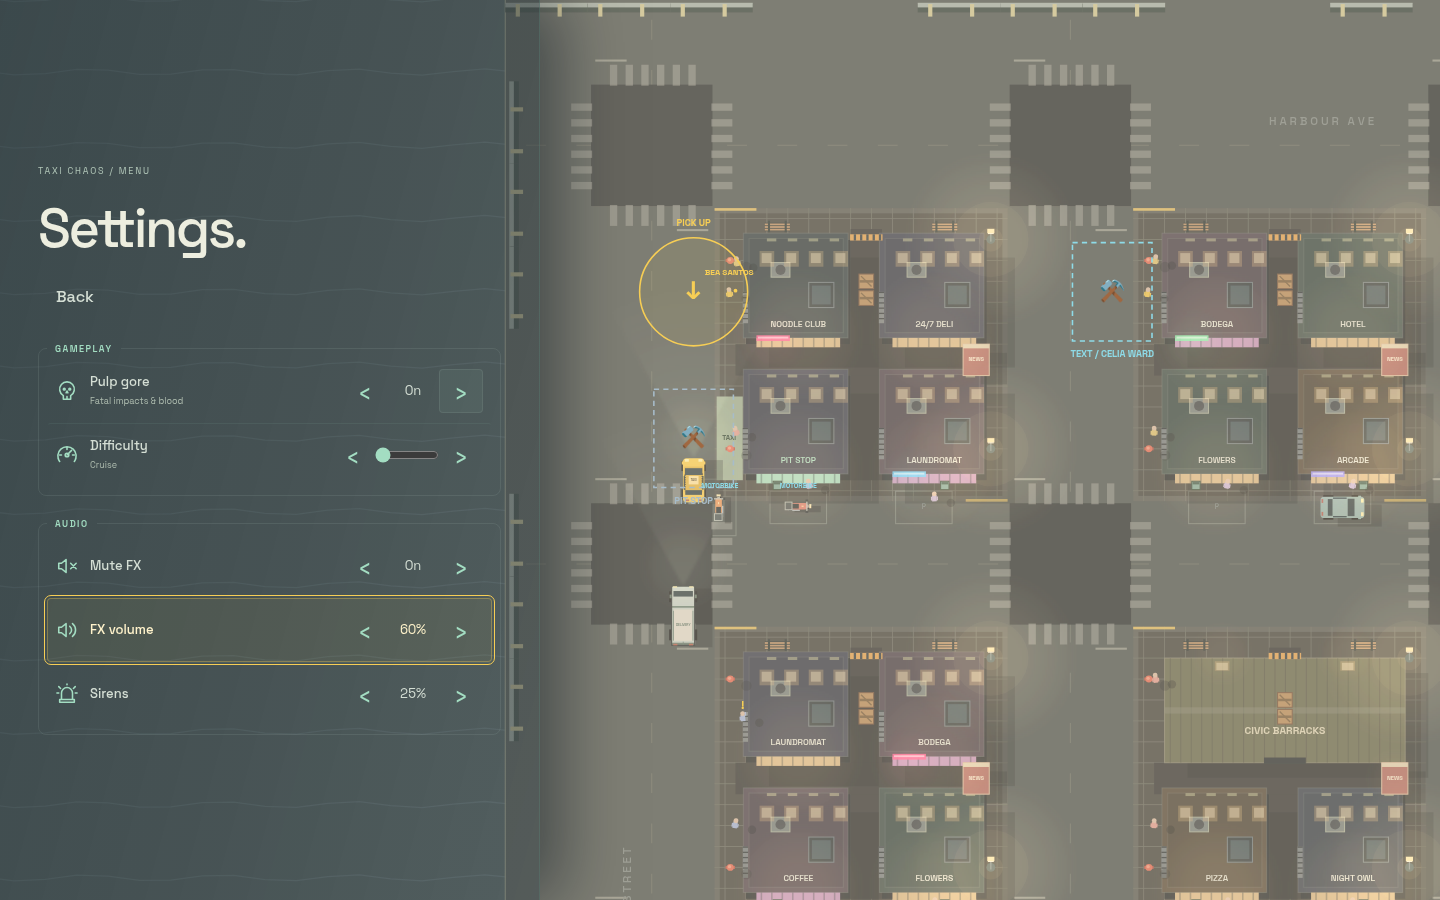
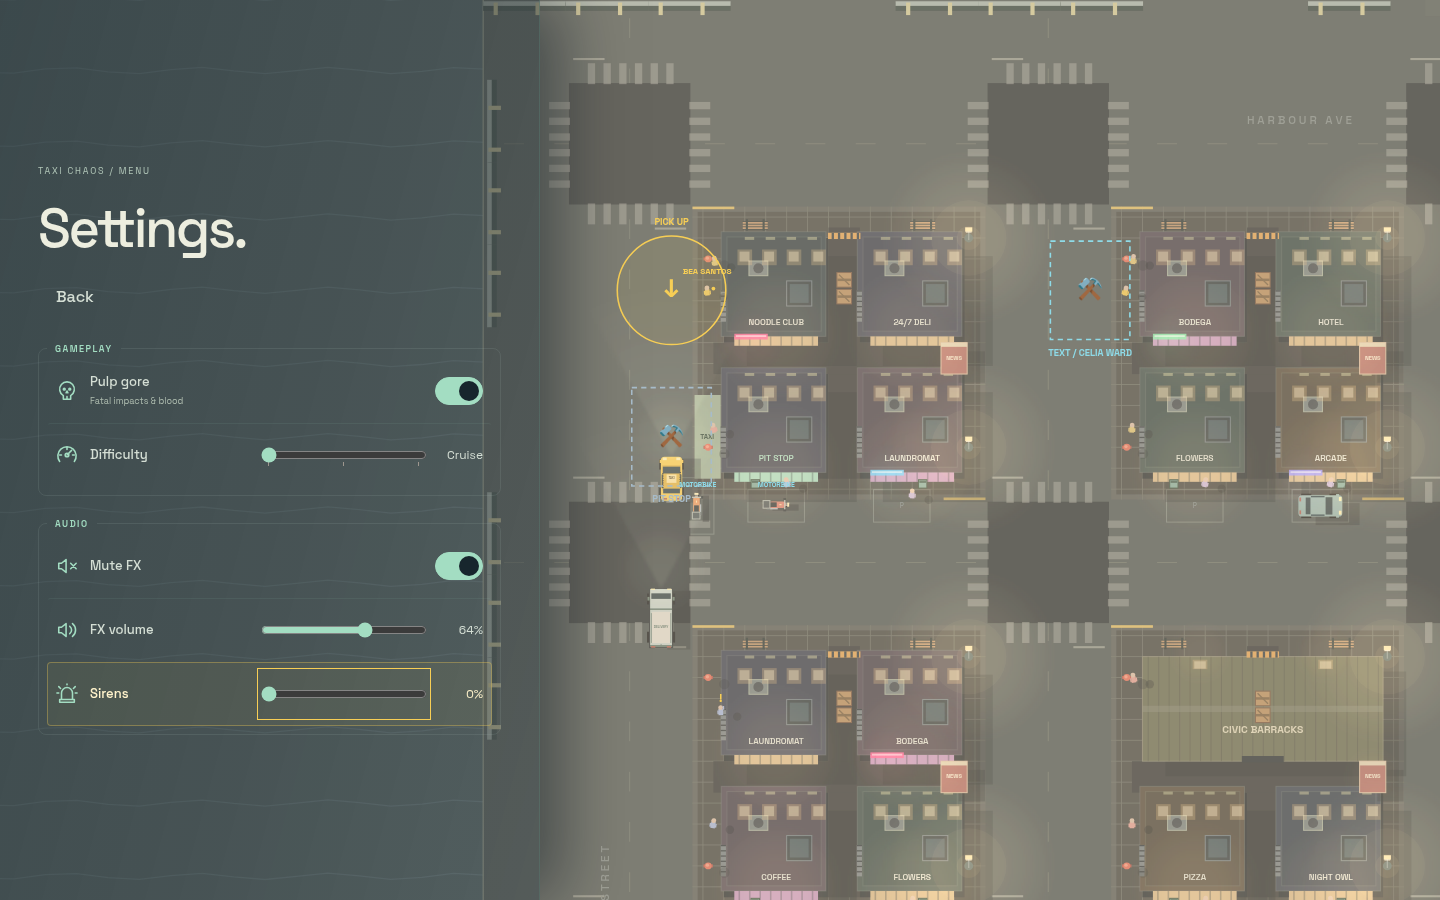
Use switches and sliders for game settings

diff --git a/src/drawer.css b/src/drawer.css
@@ -29,21 +29,23 @@
 @media(prefers-reduced-motion:reduce){.drawer-entering{animation:none}.splash-modal .menu-item,.splash-modal .menu-item::after,.splash-modal .menu-field{transition:none}}
 @media(max-width:700px){.splash-modal{width:min(420px,calc(100vw - 24px));padding:max(24px,env(safe-area-inset-top)) max(24px,env(safe-area-inset-right)) max(24px,env(safe-area-inset-bottom)) max(24px,env(safe-area-inset-left))}.splash-modal h2{font-size:clamp(34px,8vw,48px)}.splash-save{padding:14px}.splash-save-heading{flex-wrap:wrap}.splash-save-heading small{margin-left:0;width:100%}.splash-snapshot strong{font-size:22px}.splash-modal .intro-controls{gap:8px;font-size:9px}.splash-modal .intro-grid{grid-template-columns:1fr}.splash-modal .intro-grid>div>span{margin-bottom:5px}}
 @media(max-height:650px){.splash-modal{padding-top:20px;padding-bottom:20px}.splash-modal h2{font-size:40px;margin-top:14px}.drawer-page>.intro-copy{margin-bottom:14px}.splash-snapshot{padding:12px 0}}
-/* Settings retain the drawer palette and use one control pattern throughout. */
+/* Settings share the drawer palette, with native controls and aligned values. */
 .settings-group{min-width:0;margin:22px 0 0;padding:4px 8px 8px;border:1px solid var(--border);border-radius:8px}
 .settings-group legend{padding:0 8px;font-size:9px;font-weight:600;letter-spacing:1.5px;color:var(--mint)}
-.setting-row{display:flex;align-items:center;gap:12px;min-height:64px;padding:8px;border:1px solid transparent;border-radius:4px;color:#d4ded4}
+.setting-row{display:flex;align-items:center;gap:12px;min-height:64px;padding:8px;border:1px solid transparent;border-radius:4px;color:#d4ded4;cursor:pointer}
 .setting-row+.setting-row{border-top-color:#a3ddc215}
-.setting-row[data-selected]{background:#f7ce5510;border-color:#f7ce5555;color:#fff3cb}
-.setting-row:focus-visible{outline:1px solid var(--gold);outline-offset:2px}
+.setting-row:has([data-selected]){background:#f7ce5510;border-color:#f7ce5555;color:#fff3cb}
 .setting-row>svg{flex:0 0 22px;color:var(--mint)}
 .setting-label{flex:1;min-width:0;font-size:13px;font-weight:500}
 .setting-label small{display:block;margin-top:5px;font-size:9px;font-weight:400;color:#aebcaf;line-height:1.5}
-.setting-value{display:flex;align-items:center;flex-shrink:0}
-.setting-value output{min-width:52px;text-align:center;font-size:13px;font-variant-numeric:tabular-nums}
-.setting-value button{display:grid;place-items:center;width:44px;height:44px;padding:0;background:transparent;border:1px solid transparent;border-radius:4px;color:var(--mint);font-size:26px;touch-action:manipulation}
-.setting-value button:hover{background:#a3ddc212;border-color:var(--border)}
-@media(max-width:380px){.settings-group{padding-inline:2px}.setting-row{gap:8px;padding-inline:4px}.setting-label{font-size:11px}.setting-value output{min-width:40px;font-size:12px}.setting-row>svg{flex-basis:18px;width:18px}.setting-value button{width:36px}}
-
-.setting-value input[type=range]{width:64px;min-width:0;margin:0;accent-color:var(--mint);cursor:pointer}
-@media(max-width:380px){.setting-value input[type=range]{width:40px}}
+.setting-value{display:flex;align-items:center;gap:12px;width:52%;min-width:0}
+.setting-value output{flex:0 0 44px;text-align:right;font-size:12px;font-variant-numeric:tabular-nums}
+.setting-value input[type=range]{flex:1;width:0;min-width:0;height:44px;margin:0;accent-color:var(--mint);cursor:pointer}
+.setting-value.setting-toggle{justify-content:flex-end}
+.setting-value input[type=checkbox]{appearance:none;position:relative;width:48px;height:28px;margin:8px 0;border:1px solid #a3ddc266;border-radius:20px;background:#14242c;cursor:pointer;transition:background .15s}
+.setting-value input[type=checkbox]::before{content:'';position:absolute;width:20px;height:20px;left:3px;top:3px;border-radius:50%;background:#d4ded4;transition:transform .15s}
+.setting-value input[type=checkbox]:checked{background:var(--mint);border-color:var(--mint)}
+.setting-value input[type=checkbox]:checked::before{transform:translateX(20px);background:#17262d}
+.setting-value input:focus-visible{outline:1px solid var(--gold);outline-offset:3px}
+@media(max-width:380px){.settings-group{padding-inline:2px}.setting-row{gap:8px;padding-inline:4px}.setting-label{font-size:11px}.setting-value{gap:6px}.setting-value output{flex-basis:36px;font-size:11px}.setting-row>svg{flex-basis:18px;width:18px}}
+@media(prefers-reduced-motion:reduce){.setting-value input[type=checkbox],.setting-value input[type=checkbox]::before{transition:none}}

diff --git a/src/game-drawer.ts b/src/game-drawer.ts
@@ -1,7 +1,7 @@
 import type { Game } from './game';
 import type { AudioFX } from './audio';
 import { difficulties, type Difficulty } from './rules';
-import { stepChoice, stepVolume, type SettingKey } from './setting-controls';
+import type { SettingKey } from './setting-controls';
 import type { Allegation } from './campaign/model';
 import { bindAudioControls } from './audio-controls';
 import { DrawerMenu } from './drawer-menu';
@@ -22,10 +22,6 @@ export class GameDrawer {
       const button = event.target instanceof Element ? event.target.closest<HTMLButtonElement>('button') : null;
       if (!this.active || this.transition || !button || button.disabled) return;
       const game = options.game(), page = button.dataset.page;
-      if (button.dataset.step) {
-        this.changeSetting(button.closest<HTMLElement>('[data-setting]')!.dataset.setting as SettingKey, Number(button.dataset.step));
-        return;
-      }
       if (page && isDrawerPage(page)) { void this.open(page); return; }
       switch (button.id) {
         case 'start': options.play(); break;
@@ -39,10 +35,15 @@ export class GameDrawer {
       if (button.dataset.publish && game.requestPublication(button.dataset.publish as Allegation)) this.refresh();
     });
     root.addEventListener('input', event => {
-      if ((event.target as HTMLElement).id === 'difficulty-slider') {
-        options.game().configure({ difficulty: (Object.keys(difficulties) as Difficulty[])[Number((event.target as HTMLInputElement).value)] });
-        this.refreshSettings();
+      const input = event.target as HTMLInputElement;
+      const key = input.dataset.settingInput as SettingKey | undefined;
+      if (key === 'gore') options.game().configure({ gore: input.checked });
+      else if (key === 'difficulty') options.game().configure({ difficulty: (Object.keys(difficulties) as Difficulty[])[Number(input.value)] });
+      else if (key) {
+        options.audio.configure(key === 'muted' ? { muted: input.checked } : { [key]: Number(input.value) / 100 });
+        void options.audio.unlock();
       }
+      if (key) this.refreshSettings();
       if ((event.target as HTMLElement).id === 'notebook-search') this.filterNotebook();
     });
   }
@@ -62,26 +63,15 @@ export class GameDrawer {
     const values: Record<SettingKey, string> = { gore: settings.gore ? 'On' : 'Off', difficulty: difficulties[settings.difficulty].name, muted: p.muted ? 'On' : 'Off', volume: `${Math.round(p.volume * 100)}%`, sirens: `${Math.round(p.sirens * 100)}%` };
     this.root.querySelectorAll<HTMLElement>('[data-setting]').forEach(row => {
       const value = values[row.dataset.setting as SettingKey];
-      if (row.dataset.setting === 'difficulty') {
-        row.querySelector('[data-difficulty-label]')!.textContent = value;
-        const slider = row.querySelector<HTMLInputElement>('input')!;
-        slider.value = String(Object.keys(difficulties).indexOf(settings.difficulty));
-        slider.setAttribute('aria-valuetext', value);
-        return;
+      const key = row.dataset.setting as SettingKey, input = row.querySelector<HTMLInputElement>('input')!;
+      if (key === 'gore' || key === 'muted') input.checked = value === 'On';
+      else {
+        input.value = String(key === 'difficulty' ? Object.keys(difficulties).indexOf(settings.difficulty) : Math.round(p[key] * 100));
+        if (key === 'difficulty') input.setAttribute('aria-valuetext', value);
+        const output = row.querySelector('output')!;
+        if (output.textContent !== value) output.textContent = value;
       }
-      const output = row.querySelector('output')!;
-      if (output.textContent !== value) output.textContent = value;
     });
-  }
-  private changeSetting(key: SettingKey, delta: number) {
-    const game = this.options.game(), audio = this.options.audio, p = audio.preferences;
-    if (key === 'gore') game.configure({ gore: !game.settings.gore });
-    else if (key === 'difficulty') game.configure({ difficulty: stepChoice(Object.keys(difficulties) as Difficulty[], game.settings.difficulty, delta) });
-    else {
-      audio.configure(key === 'muted' ? { muted: !p.muted } : { [key]: stepVolume(p[key], delta) });
-      void audio.unlock();
-    }
-    this.refreshSettings();
   }
 
   async open(page: DrawerPage, { animate = true } = {}) {

diff --git a/src/setting-controls.ts b/src/setting-controls.ts
@@ -8,15 +8,15 @@ const paths = {
 };
 export type SettingKey = keyof typeof paths;
 export function settingRow(key: SettingKey, label: string, value: string, hint = '') {
-  return `<div class="setting-row" id="${key}-option" data-setting="${key}" tabindex="0" role="group" aria-label="${label}">
+  const toggle = key === 'gore' || key === 'muted';
+  const difficulty = key === 'difficulty';
+  const current = difficulty ? ['Cruise', 'Street', 'Chaos'].indexOf(value) : parseInt(value);
+  const control = toggle
+    ? `<input type="checkbox" role="switch" id="${key}-option" data-setting-input="${key}" ${value === 'On' ? 'checked' : ''}>`
+    : `<input type="range" id="${key}-option" data-setting-input="${key}" min="0" max="${difficulty ? 2 : 100}" step="1" value="${current}" ${difficulty ? `aria-valuetext="${value}" list="difficulty-stops"` : ''}><output for="${key}-option">${value}</output>${difficulty ? '<datalist id="difficulty-stops"><option value="0"></option><option value="1"></option><option value="2"></option></datalist>' : ''}`;
+  return `<label class="setting-row" data-setting="${key}" for="${key}-option">
     <svg viewBox="0 0 24 24" fill="none" stroke="currentColor" stroke-width="1.7" stroke-linecap="round" stroke-linejoin="round" aria-hidden="true">${paths[key]}</svg>
-    <div class="setting-label">${label}${key === 'difficulty' ? `<small data-difficulty-label>${value}</small>` : hint ? `<small>${hint}</small>` : ''}</div>
-    <div class="setting-value"><button type="button" data-step="-1" aria-label="Previous ${label}">‹</button>${key === 'difficulty' ? `<input type="range" id="difficulty-slider" min="0" max="2" step="1" value="${['Cruise', 'Street', 'Chaos'].indexOf(value)}" aria-label="Difficulty" aria-valuetext="${value}">` : `<output aria-live="polite">${value}</output>`}<button type="button" data-step="1" aria-label="Next ${label}">›</button></div>
-  </div>`;
-}
-export function stepChoice<T>(choices: readonly T[], current: T, delta: number): T {
-  return choices[(choices.indexOf(current) + delta + choices.length) % choices.length];
-}
-export function stepVolume(current: number, delta: number): number {
-  return Math.max(0, Math.min(100, Math.round(current * 100) + delta * 5)) / 100;
+    <span class="setting-label">${label}${hint ? `<small>${hint}</small>` : ''}</span>
+    <span class="setting-value${toggle ? ' setting-toggle' : ''}">${control}</span>
+  </label>`;
 }

diff --git a/src/drawer-menu.ts b/src/drawer-menu.ts
@@ -40,11 +40,11 @@ export class DrawerMenu {
     }, true);
   }
   private items() {
-    return Array.from(this.root.querySelectorAll<HTMLElement>('[data-setting], button:not(:disabled):not([data-step]), input:not(:disabled), select:not(:disabled), a[href]'))
-      .filter(item => (!item.closest('[data-setting]') || item.matches('[data-setting]')) && !item.hidden && item.getClientRects().length > 0);
+    return Array.from(this.root.querySelectorAll<HTMLElement>('button:not(:disabled), input:not(:disabled), select:not(:disabled), a[href]'))
+      .filter(item => !item.hidden && item.getClientRects().length > 0);
   }
   private item(target: EventTarget | null) {
-    const item = target instanceof Element ? (target.closest<HTMLElement>('[data-setting]') ?? target.closest<HTMLElement>('button, input, select, a[href]')) : null;
+    const item = target instanceof Element ? target.closest<HTMLElement>('button, input, select, a[href]') : null;
     return item && this.root.contains(item) && !item.matches(':disabled') && item.getClientRects().length ? item : null;
   }
   private select(item: HTMLElement) {
@@ -72,13 +72,16 @@ export class DrawerMenu {
     this.selected?.scrollIntoView({ block: 'nearest' });
   }
   adjust(delta: number) {
-    this.selected?.querySelector<HTMLButtonElement>(`[data-step="${delta}"]`)?.click();
-  }
-  activate() { if (this.selected?.matches('[data-setting]')) this.adjust(1); else this.selected?.click(); }
-  handleKey(event: KeyboardEvent) {
-    if (this.selected?.matches('[data-setting]') && ['ArrowLeft', 'ArrowRight'].includes(event.code)) {
-      event.preventDefault(); this.adjust(event.code === 'ArrowLeft' ? -1 : 1); return true;
+    const input = this.selected;
+    if (!(input instanceof HTMLInputElement)) return;
+    if (input.type === 'checkbox') input.click();
+    else if (input.type === 'range') {
+      if (delta > 0) input.stepUp(); else input.stepDown();
+      input.dispatchEvent(new Event('input', { bubbles: true }));
     }
+  }
+  activate() { this.selected?.click(); }
+  handleKey(event: KeyboardEvent) {
     const native = event.target instanceof Element ? event.target.closest('input, select') : null;
     // Native value editing uses left/right on ranges and all arrows on selects.
     if (native?.matches('select') && event.code !== 'Tab') return false;
